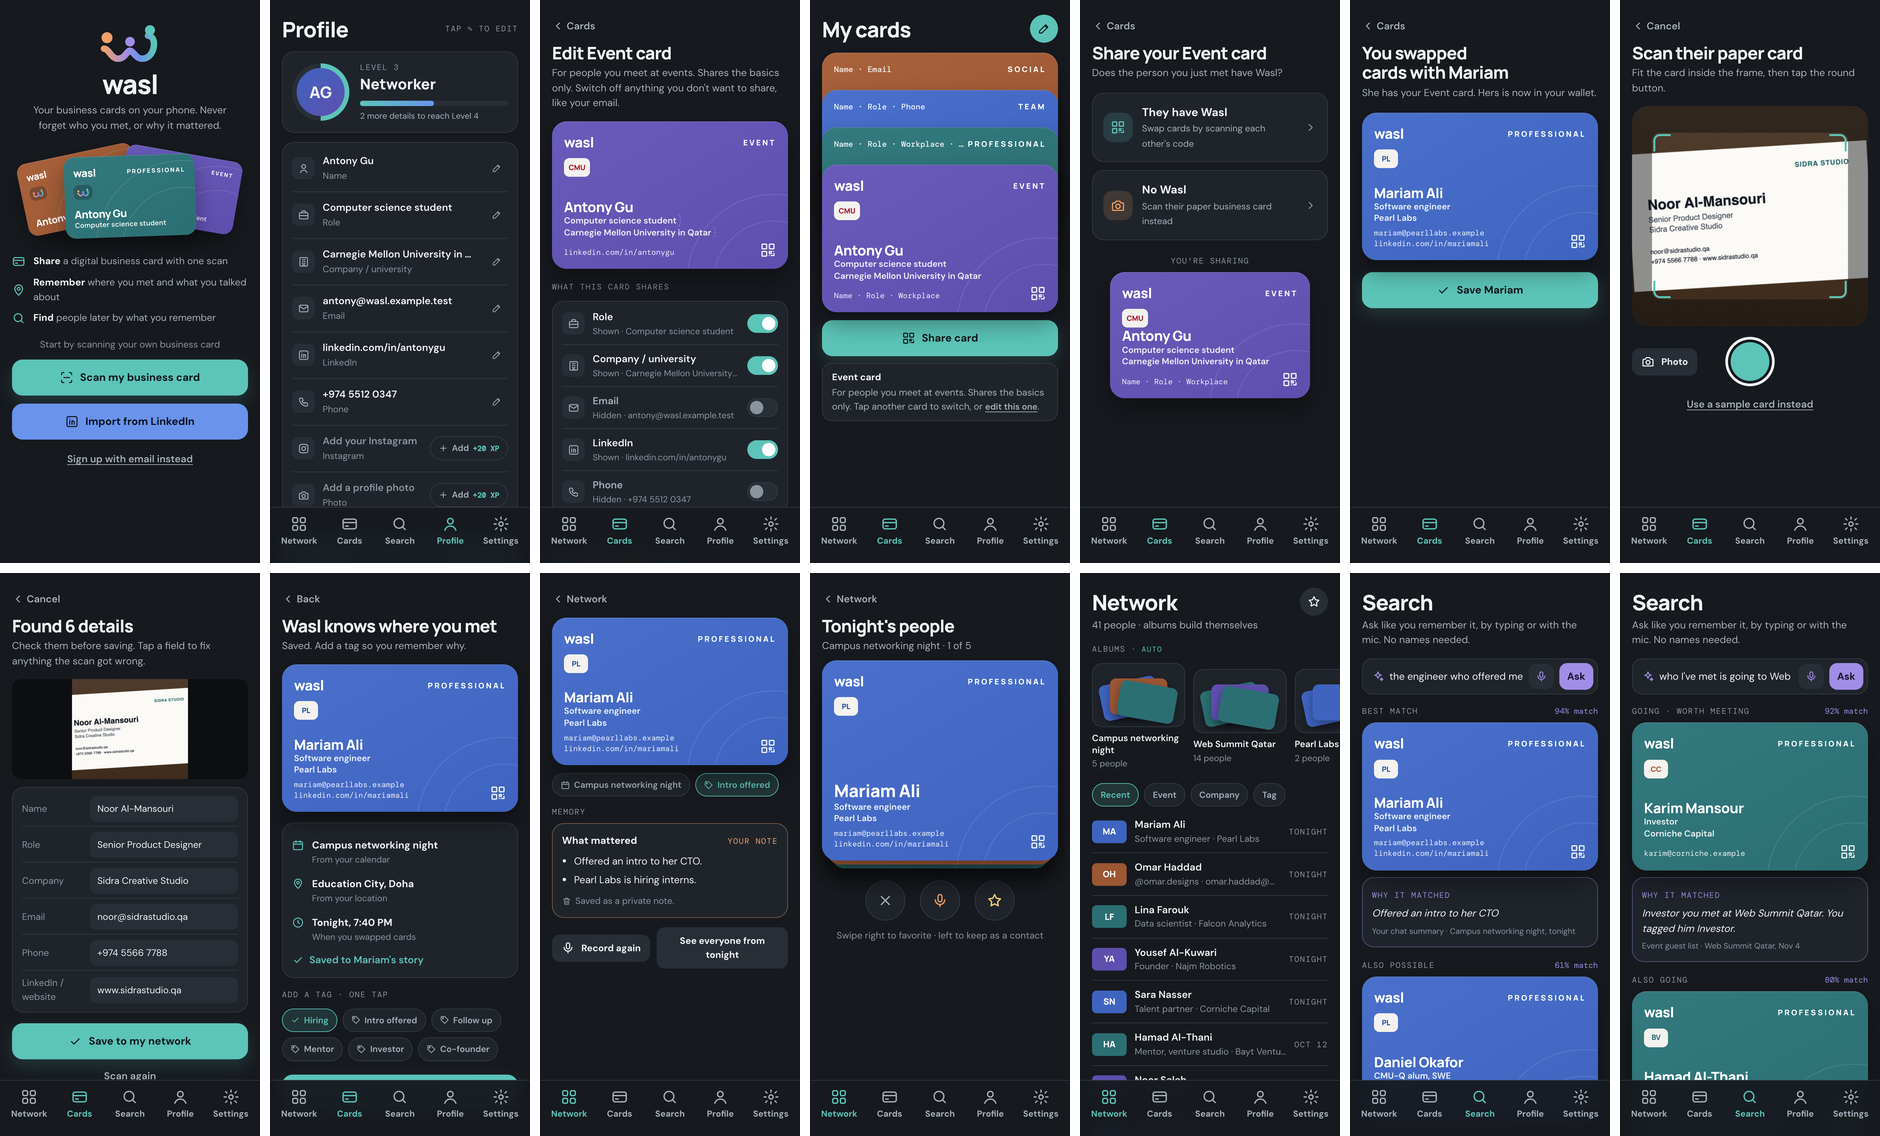
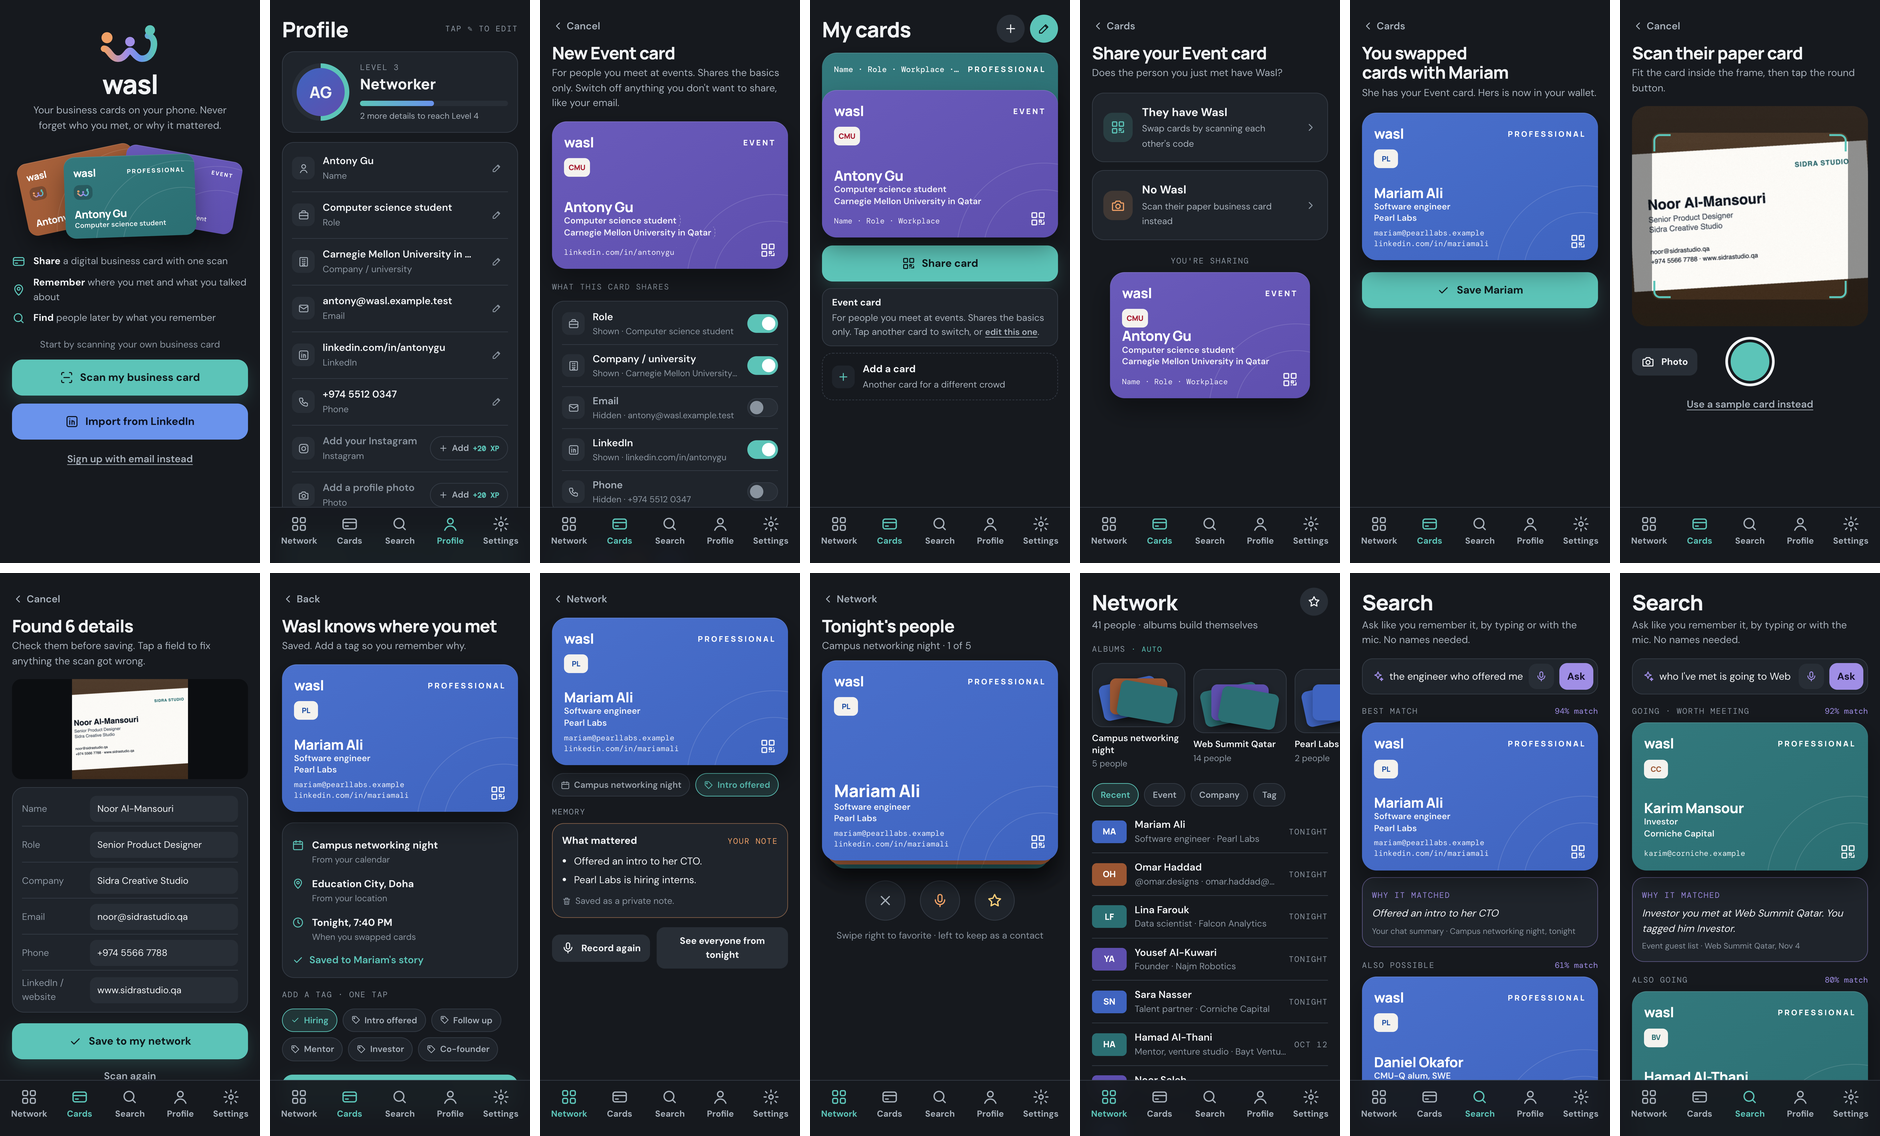
Start with one card and add more: Add a card button and picker, new-card editor, remove a card; guide step 2 adds an Event card

Changed region(s): [[0.4319, 0.0308, 0.5862, 0.3697], [0.2777, 0.0308, 0.3702, 0.0616]]

diff --git a/public/mockup/index.html b/public/mockup/index.html
@@ -360,6 +360,13 @@ h1, h2, h3 { font-family: var(--display); text-wrap: balance; }
 .wallet .card:last-child { position: relative; top: 0 !important; }
 .wallet .card.behind .c-tile { visibility: hidden; }
 .card .c-peek { font-family: var(--mono); font-size: 12px; font-weight: 500; opacity: 0.92; min-width: 0; overflow: hidden; text-overflow: ellipsis; white-space: nowrap; }
+.choice .shares { display: block; margin-top: 4px; font-family: var(--mono); font-size: 12px; color: var(--muted); }
+.add-card { display: flex; align-items: center; gap: 12px; width: 100%; padding: 12px 14px; border-radius: 16px; border: 1.5px dashed var(--line); background: transparent; color: var(--text); text-align: left; cursor: pointer; font: inherit; }
+.add-card:hover { border-color: var(--teal); }
+.add-card .ic { width: 34px; height: 34px; border-radius: 10px; display: grid; place-items: center; background: var(--surface); color: var(--teal); flex: none; }
+.add-card .ic svg { width: 18px; height: 18px; }
+.add-card b { display: block; font-size: 15px; }
+.add-card span span { color: var(--text-2); font-size: 13.5px; }
 .card-about { display: flex; flex-direction: column; gap: 2px; padding: 10px 14px; border-radius: 14px; background: var(--surface); border: 1px solid var(--line); }
 .card-about b { font-size: 14px; }
 .card-about span { color: var(--text-2); font-size: 14px; }
@@ -773,6 +780,14 @@ h1, h2, h3 { font-family: var(--display); text-wrap: balance; }
     social: "For friends and people you meet socially.",
     team: "For your teammates and classmates.",
   };
+  // what each type of card shares when you first add it
+  const CARD_TYPES = {
+    pro: { color: "pro", fields: ["name", "role", "org", "email", "linkedin"] },
+    event: { color: "event", fields: ["name", "role", "org"] },
+    social: { color: "social", fields: ["name", "email", "instagram"] },
+    team: { color: "team", fields: ["name", "role", "phone"] },
+  };
+  const newCard = (id) => JSON.parse(JSON.stringify(CARD_TYPES[id]));
   const kindName = (id) => KIND[id].charAt(0) + KIND[id].slice(1).toLowerCase();
   const COLOR_NAME = { pro: "Deep teal", event: "Deep violet", social: "Copper", team: "Deep blue" };
 
@@ -831,16 +846,12 @@ h1, h2, h3 { font-family: var(--display); text-wrap: balance; }
     joinPhase: "choose", // choose | scanning | found | linkedin
     profileFilled: false,
     extra: { instagram: false, photo: false },
-    cards: {
-      pro: { color: "pro", fields: ["name", "role", "org", "email", "linkedin"] },
-      event: { color: "event", fields: ["name", "role", "org"] },
-      social: { color: "social", fields: ["name", "email", "instagram"] },
-      team: { color: "team", fields: ["name", "role", "phone"] },
-    },
-    order: ["social", "team", "pro", "event"],
-    front: "event",
-    editId: "event",
+    cards: { pro: newCard("pro") }, // everyone starts with one card and adds more
+    order: ["pro"],
+    front: "pro",
+    editId: "pro",
     draft: null,
+    adding: false, // the card being edited is a new one that isn't saved yet
     exPhase: "ask", // ask | ready | swapping | done | paper | paperfound | scanned
     swappedWith: null,
     mariamSaved: false,
@@ -884,7 +895,7 @@ h1, h2, h3 { font-family: var(--display); text-wrap: balance; }
   const sharesList = (fields) => fields.map((f) => FIELD_META[f].short || FIELD_META[f].label).join(" · ");
   const cardFields = (id) => S.cards[id].fields.filter((f) => f !== "instagram" || S.extra.instagram);
   function card(id, opts = {}) {
-    const c = opts.data || S.cards[id];
+    const c = opts.data || S.cards[id] || CARD_TYPES[id];
     // Instagram appears only after the person adds their own handle
     const fields = c.fields.filter((f) => f !== "instagram" || S.extra.instagram);
     const isEdit = !!opts.edit;
@@ -1030,8 +1041,9 @@ h1, h2, h3 { font-family: var(--display); text-wrap: balance; }
       const allContact = ["role", "org", "email", "linkedin", "phone", "instagram"];
       // every detail gets a labeled switch, so people can see exactly what they're hiding (testers couldn't tell)
       const rows = allContact.filter((f) => f !== "instagram" || S.extra.instagram);
-      return `${back("wallet", "Cards")}
-        <h2 class="title" style="font-size:26px">Edit ${kindName(S.editId)} card</h2>
+      const canRemove = !S.adding && S.order.length > 1;
+      return `${back("wallet", S.adding ? "Cancel" : "Cards")}
+        <h2 class="title" style="font-size:26px">${S.adding ? "New" : "Edit"} ${kindName(S.editId)} card</h2>
         <p class="sub">${KIND_FOR[S.editId]} Switch off anything you don't want to share, like your email.</p>
         <div style="margin:16px 0 18px">${card(S.editId, { data: d, edit: true })}</div>
         <div class="stack">
@@ -1042,19 +1054,22 @@ h1, h2, h3 { font-family: var(--display); text-wrap: balance; }
           }).join("")}</div>
           <div class="label" style="margin-top:6px">Color</div>
           <div class="swatches">${["pro", "event", "social", "team"].map((c) => `<button class="swatch ${c}" data-act="color" data-c="${c}" aria-pressed="${d.color === c}" aria-label="${COLOR_NAME[c]}"></button>`).join("")}</div>
-          <button class="btn" style="margin-top:12px" data-act="save-card">${ic("check")}Save card</button>
+          <button class="btn" style="margin-top:12px" data-act="save-card">${ic(S.adding ? "plus" : "check")}${S.adding ? "Add card" : "Save card"}</button>
+          ${canRemove ? `<button class="link" style="display:block;margin:4px auto 0;color:var(--muted)" data-act="remove-card">Remove this card</button>` : ""}
         </div>`;
     },
 
     wallet() {
       const order = S.order;
-      return `<div class="topline"><h2 class="title">My cards</h2><button class="round" data-act="edit-front" aria-label="Edit the front card">${ic("pencil")}</button></div>
+      const more = Object.keys(CARD_TYPES).filter((k) => !S.cards[k]);
+      return `<div class="topline"><h2 class="title">My cards</h2><div class="row" style="gap:8px">${more.length ? `<button class="round quiet" data-act="add-card" aria-label="Add a card">${ic("plus")}</button>` : ""}<button class="round" data-act="edit-front" aria-label="Edit the front card">${ic("pencil")}</button></div></div>
         <div class="wallet" style="padding-top:calc(var(--band) * ${order.length - 1})">
           ${order.map((id, i) => card(id, { peek: id !== S.front, cls: id === S.front ? "front" : "behind", attrs: `style="top:calc(var(--band) * ${i});z-index:${i + 1}" data-act="front" data-id="${id}" role="button" tabindex="0" aria-label="${kindName(id)} card: ${sharesList(cardFields(id))}"` })).join("")}
         </div>
         <div class="stack" style="margin-top:12px;gap:10px">
           <button class="btn" data-act="share">${ic("qr")}Share card</button>
-          <div class="card-about"><b>${kindName(S.front)} card</b><span>${KIND_FOR[S.front]} Tap another card to switch, or <button class="link" style="padding:0;font-size:13px" data-act="edit-front">edit this one</button>.</span></div>
+          <div class="card-about"><b>${kindName(S.front)} card</b><span>${KIND_FOR[S.front]} ${order.length > 1 ? "Tap another card to switch, or" : "Tap the card to"} <button class="link" style="padding:0;font-size:13px" data-act="edit-front">${order.length > 1 ? "edit this one" : "edit it"}</button>.</span></div>
+          ${more.length ? `<button class="add-card" data-act="add-card"><span class="ic">${ic("plus")}</span><span><b>Add a card</b><span>${order.length > 1 ? "Another card for a different crowd" : "Like an Event card that shares less"}</span></span></button>` : ""}
         </div>`;
     },
 
@@ -1485,6 +1500,13 @@ h1, h2, h3 { font-family: var(--display); text-wrap: balance; }
       <button class="btn" data-act="scan-own">${ic("scan")}Scan my card instead</button>
       <button class="link" data-act="close-sheet">Close</button>
     </div></div>`,
+    addcard: () => `<div class="scrim" data-act="close-sheet"><div class="sheet" data-stop>
+      <div class="grab"></div>
+      <h3>Add a card</h3>
+      <p class="sub">Each card shares different details, so you show the right side of you.</p>
+      <div class="stack" style="gap:10px">${Object.keys(CARD_TYPES).filter((k) => !S.cards[k]).map((k) => `<button class="choice" data-act="pick-card" data-k="${k}"><span class="ic" style="background:var(--card-${k});color:#fff">${ic("cards")}</span><span><b>${kindName(k)} card</b><span>${KIND_FOR[k]}</span><span class="shares">${esc(sharesList(CARD_TYPES[k].fields.filter((f) => f !== "instagram" || S.extra.instagram)))}</span></span>${ic("right")}</button>`).join("")}</div>
+      <button class="link" data-act="close-sheet">Not now</button>
+    </div></div>`,
     ctx: () => `<div class="scrim" data-act="close-sheet"><div class="sheet" data-stop>
       <div class="grab"></div>
       <h3>Where did you meet?</h3>
@@ -1599,7 +1621,19 @@ h1, h2, h3 { font-family: var(--display); text-wrap: balance; }
       S.front = id;
       render();
     },
-    "edit-front"() { S.editId = S.front; S.draft = JSON.parse(JSON.stringify(S.cards[S.front])); S.screen = "build"; render(); },
+    "edit-front"() { S.editId = S.front; S.draft = JSON.parse(JSON.stringify(S.cards[S.front])); S.adding = false; S.screen = "build"; render(); },
+    "add-card"() { S.sheet = "addcard"; render(); },
+    "pick-card"(el) { S.editId = el.dataset.k; S.draft = newCard(el.dataset.k); S.adding = true; S.sheet = null; S.screen = "build"; render(); },
+    "remove-card"() {
+      const id = S.editId;
+      delete S.cards[id];
+      S.order = S.order.filter((x) => x !== id);
+      S.front = S.order[S.order.length - 1];
+      S.draft = null;
+      S.screen = "wallet";
+      render();
+      toast(`${kindName(id)} card removed`);
+    },
     "hide-field"(el) { const f = el.dataset.f; S.draft.fields = S.draft.fields.filter((x) => x !== f); render(); },
     "add-field"(el) {
       const f = el.dataset.f;
@@ -1609,6 +1643,19 @@ h1, h2, h3 { font-family: var(--display); text-wrap: balance; }
     },
     color(el) { S.draft.color = el.dataset.c; render(); },
     "save-card"() {
+      if (S.adding) {
+        // a new card goes on top of the stack, ready to share
+        S.cards[S.editId] = S.draft;
+        S.order = S.order.filter((x) => x !== S.editId).concat(S.editId);
+        S.front = S.editId;
+        S.adding = false;
+        S.draft = null;
+        S.flags.addedCard = true;
+        S.screen = "wallet";
+        render();
+        xpToast(`${kindName(S.front)} card added`, 15);
+        return;
+      }
       const hadEmail = S.cards[S.editId].fields.includes("email");
       S.cards[S.editId] = S.draft;
       if (hadEmail && !S.draft.fields.includes("email")) S.flags.hidEmail = true;
@@ -2226,7 +2273,7 @@ h1, h2, h3 { font-family: var(--display); text-wrap: balance; }
   // ---------- walkthrough + user test guide ----------
   const STEPS = [
     { n: "1", t: "Join", wow: 1, h: "Scan your card. Your profile fills itself.", screen: "join" },
-    { n: "2", t: "Build", wow: 1, h: "Tap details on the card to hide them. Pick a color.", screen: "build" },
+    { n: "2", t: "Build", wow: 1, h: "Add an Event card that shares less. Switch details on or off.", screen: "build" },
     { n: "3", t: "Share", wow: 1, h: "Share card. Has Wasl? Swap codes. No Wasl? Scan their paper card.", screen: "wallet" },
     { n: "4", t: "Save", wow: 2, h: "Confirm where you met. Add a tag.", screen: "save" },
     { n: "5", t: "Remember", wow: 2, h: "Tap the mic and talk. Wasl keeps only what mattered.", screen: "remember" },
@@ -2242,11 +2289,12 @@ h1, h2, h3 { font-family: var(--display); text-wrap: balance; }
     // start clean, then make every earlier step "done" so any step opens the same way each time
     resetAll();
     if (i >= 1) { S.profileFilled = true; S.joinPhase = "choose"; }
+    if (i >= 2) { S.cards.event = newCard("event"); S.order = ["pro", "event"]; S.front = "event"; } // added in step 2
     if (i >= 3) { S.swappedWith = S.swappedWith || "pro"; S.exPhase = "done"; }
     if (i >= 4) { S.ctxConfirmed = true; S.mariamSaved = true; if (!S.tags.length) S.tags = ["Intro offered"]; }
     if (i >= 6) { S.summary = true; S.memory = SAMPLE_MEMORY; S.consent = true; }
     const st = STEPS[i];
-    if (st.screen === "build") { S.editId = S.front; S.draft = JSON.parse(JSON.stringify(S.cards[S.front])); }
+    if (st.screen === "build") { S.editId = "event"; S.draft = newCard("event"); S.adding = true; }
     if (st.screen === "debrief") { S.debriefIdx = 0; S.debrief = {}; }
     if (st.screen === "recall") { S.recall = "idle"; S.query = ""; }
     if (st.screen === "network") { S.sort = "recent"; }

diff --git a/docs/TECHNICAL_SOLUTION.md b/docs/TECHNICAL_SOLUTION.md
@@ -33,7 +33,7 @@ Status key: **Built** = works in the MVP repo today. **Mockup** = shown in the c
 | Step | What the user sees | How it works | Status |
 |---|---|---|---|
 | 1 · Join | Scan your own card or import LinkedIn; the profile fills itself and levels up | Card photo → Google Vision OCR → `gpt-4o-mini` turns the text into fields → user reviews before saving. Level = share of profile fields filled. | Scanning your own card: works in the mockup with the phone camera (OCR in the browser); the real app uses the built Google Vision scanner from step 3. Levels: **Mockup**. LinkedIn import: **Planned** (API access uncertain) |
-| 2 · Build | Switch each detail on or off (or tap it on the card); pick a color | Each card stores a list of profile fields it shows. Shared links only ever expose those fields. | Field selection: **Built**. Tap-on-card editor, colors and company logos: **Mockup** |
+| 2 · Build | Start with one card, add an Event, Social or Team card; switch each detail on or off (or tap it on the card); pick a color | Each card stores a list of profile fields it shows. Shared links only ever expose those fields. | Field selection: **Built**. Tap-on-card editor, colors and company logos: **Mockup** |
 | 3 · Share | Stacked wallet; "Share card" first asks whether they have Wasl; one scan swaps cards with a buzz | Each card has a revocable share token shown as a QR code. Scanning it saves the card. A two-way swap = both phones scan or one phone confirms on the other. If they have no Wasl, scan their paper card: the mockup does this for real with the phone camera (or a photo), Tesseract.js OCR and an editable review. | QR share + save, and scanning someone else's card (Google Vision, reviewed before saving): **Built**. Wallet stack and two-way swap animation: **Mockup** |
 | 4 · Save | "Wasl already knows where you met"; one-tap tags | On save, the phone suggests event, place and time from the calendar entry happening now and the current location. The user confirms, or taps Change to pick another event or place. Tags are stored on the connection. | Meeting context, categories: **Built** (typed in). Calendar + location suggestions: **Mockup** |
 | 5 · Remember | Tap the mic and talk; Wasl keeps the key points | Both people consent on their phones → audio is transcribed → `gpt-4o-mini` writes 3–5 bullet points → the audio is deleted and only the text is saved as a private note. | Private notes and interaction history: **Built**. Recording + summary: works in the mockup with the browser's speech-to-text (key points picked by rules; the real build will use the AI model), **Planned** for the backend |
